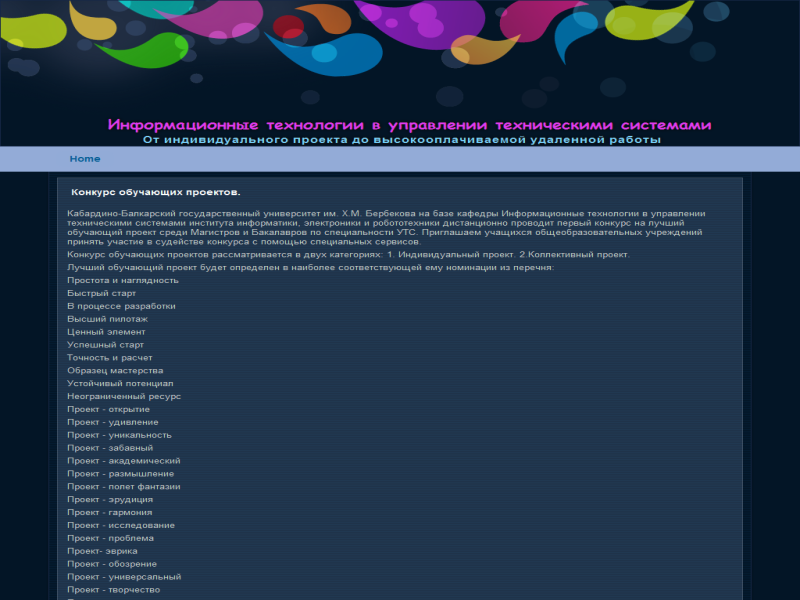
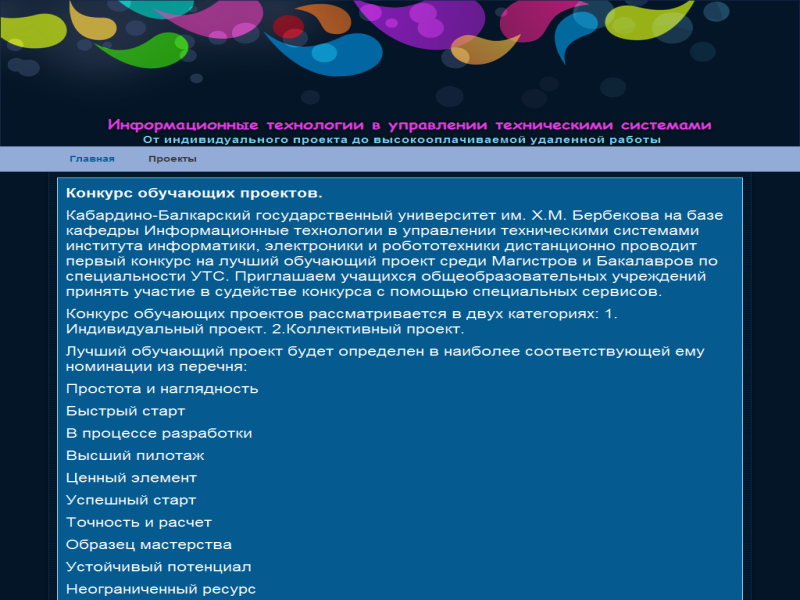
init4

diff --git a/проекты.html b/проекты.html
@@ -1,0 +1,113 @@
+<!DOCTYPE html>
+<html dir="ltr" lang="en-US"><head><!-- Created by Artisteer v4.3.0.60858 -->
+    <meta charset="utf-8">
+    <title>New Page</title>
+    <meta name="viewport" content="initial-scale = 1.0, maximum-scale = 1.0, user-scalable = no, width = device-width">
+
+    <!--[if lt IE 9]><script src="https://html5shiv.googlecode.com/svn/trunk/html5.js"></script><![endif]-->
+    <link rel="stylesheet" href="style.css" media="screen">
+    <!--[if lte IE 7]><link rel="stylesheet" href="style.ie7.css" media="screen" /><![endif]-->
+    <link rel="stylesheet" href="style.responsive.css" media="all">
+
+
+    <script src="jquery.js"></script>
+    <script src="script.js"></script>
+    <script src="script.responsive.js"></script>
+
+
+</head>
+<body>
+<div id="art-main">
+<header class="art-header">
+
+    <div class="art-shapes">
+        <div class="art-object1623040845"></div>
+<div class="art-object1072346909"></div>
+
+            </div>
+
+<h1 class="art-headline">
+    <a href="/">Информационные технологии в управлении техническими системами</a>
+</h1>
+<h2 class="art-slogan">От индивидуального проекта до высокооплачиваемой удаленной работы</h2>
+
+
+
+
+
+                        
+                    
+</header>
+<nav class="art-nav">
+    <div class="art-nav-inner">
+    <ul class="art-hmenu"><li><a href="главная.html" class="">Главная</a></li><li><a href="проекты.html" class="active">Проекты</a></li></ul> 
+        </div>
+    </nav>
+<div class="art-sheet clearfix">
+            <div class="art-layout-wrapper">
+                <div class="art-content-layout">
+                    <div class="art-content-layout-row">
+                        <div class="art-layout-cell art-content"><article class="art-post art-article">
+                                
+                                                
+                <div class="art-postcontent art-postcontent-0 clearfix"><h3><span style="font-size: 22px;">Текущий перечень проектов</span></h3>
+<p><span style="font-size: 22px;"><br></span></p>
+<p><span style="font-size: 22px;">Проекты магистра 1 года обучения Шидугова&nbsp;Ислама.</span></p>
+<p><span style="font-size: 22px;">1.&nbsp;Дальномер на Arduino UNO + HC-SR04 + TFT Display 1.8"</span></p>
+<div class="video-container">
+ <span style="font-size: 22px;"><iframe width="560" height="315" src="https://www.youtube.com/embed/Qwj9HuhaCaI?wmode=transparent&amp;amp;wmode=transparent&amp;amp;wmode=transparent&amp;amp;wmode=transparent&amp;amp;wmode=transparent&amp;amp;wmode=transparent" frameborder="0" allow="accelerometer; autoplay; encrypted-media; gyroscope; picture-in-picture" allowfullscreen=""><span style="font-size: 22px;">&amp;amp;lt;span style="font-size: 22px;"&amp;amp;gt;&amp;amp;lt;span style="font-size: 22px;"&amp;amp;gt;&amp;amp;amp;amp;amp;lt;span style="font-size: 22px;"&amp;amp;amp;amp;amp;gt;&amp;amp;amp;amp;amp;lt;span style="font-size: 22px;"&amp;amp;amp;amp;amp;gt;&amp;amp;amp;amp;amp;amp;amp;amp;lt;span style="font-size: 22px;"&amp;amp;amp;amp;amp;amp;amp;amp;gt;&amp;amp;amp;amp;amp;amp;amp;amp;lt;span style="font-size: 22px;"&amp;amp;amp;amp;amp;amp;amp;amp;gt;
+&amp;amp;amp;amp;amp;amp;amp;amp;lt;/span&amp;amp;amp;amp;amp;amp;amp;amp;gt;&amp;amp;amp;amp;amp;amp;amp;amp;lt;/span&amp;amp;amp;amp;amp;amp;amp;amp;gt;&amp;amp;amp;amp;amp;lt;/span&amp;amp;amp;amp;amp;gt;&amp;amp;amp;amp;amp;lt;/span&amp;amp;amp;amp;amp;gt;&amp;amp;lt;/span&amp;amp;gt;&amp;amp;lt;/span&amp;amp;gt;</span></iframe></span></div>
+<p><span style="font-size: 22px;">2.&nbsp;Управление двигателями Arduino через смартфон</span></p>
+<div class="video-container">
+ <span style="font-size: 22px;"><iframe width="560" height="315" src="https://www.youtube.com/embed/QHzLbfqxxg4?wmode=transparent&amp;amp;wmode=transparent&amp;amp;wmode=transparent&amp;amp;wmode=transparent&amp;amp;wmode=transparent&amp;amp;wmode=transparent" frameborder="0" allow="accelerometer; autoplay; encrypted-media; gyroscope; picture-in-picture" allowfullscreen=""><span style="font-size: 22px;">&amp;amp;lt;span style="font-size: 22px;"&amp;amp;gt;&amp;amp;lt;span style="font-size: 22px;"&amp;amp;gt;&amp;amp;amp;amp;amp;lt;span style="font-size: 22px;"&amp;amp;amp;amp;amp;gt;&amp;amp;amp;amp;amp;lt;span style="font-size: 22px;"&amp;amp;amp;amp;amp;gt;&amp;amp;amp;amp;amp;amp;amp;amp;lt;span style="font-size: 22px;"&amp;amp;amp;amp;amp;amp;amp;amp;gt;&amp;amp;amp;amp;amp;amp;amp;amp;lt;span style="font-size: 22px;"&amp;amp;amp;amp;amp;amp;amp;amp;gt;
+&amp;amp;amp;amp;amp;amp;amp;amp;lt;/span&amp;amp;amp;amp;amp;amp;amp;amp;gt;&amp;amp;amp;amp;amp;amp;amp;amp;lt;/span&amp;amp;amp;amp;amp;amp;amp;amp;gt;&amp;amp;amp;amp;amp;lt;/span&amp;amp;amp;amp;amp;gt;&amp;amp;amp;amp;amp;lt;/span&amp;amp;amp;amp;amp;gt;&amp;amp;lt;/span&amp;amp;gt;&amp;amp;lt;/span&amp;amp;gt;</span></iframe></span></div>
+<p><span style="font-size: 22px;"><br></span></p>
+<p><span style="font-size: 22px;">Проекты магистра 1 года обучения Атласкирова&nbsp;Азамата.<br></span></p>
+<p><span style="font-size: 22px;">3.&nbsp;Подключение датчика газа MQ2 к Arduino</span></p>
+<div class="video-container">
+ <span style="font-size: 22px;"><iframe width="560" height="315" src="https://www.youtube.com/embed/L_wYam1rDqw?wmode=transparent&amp;amp;wmode=transparent&amp;amp;wmode=transparent&amp;amp;wmode=transparent&amp;amp;wmode=transparent&amp;amp;wmode=transparent" frameborder="0" allow="accelerometer; autoplay; encrypted-media; gyroscope; picture-in-picture" allowfullscreen=""><span style="font-size: 22px;">&amp;amp;lt;span style="font-size: 22px;"&amp;amp;gt;&amp;amp;lt;span style="font-size: 22px;"&amp;amp;gt;&amp;amp;amp;amp;amp;lt;span style="font-size: 22px;"&amp;amp;amp;amp;amp;gt;&amp;amp;amp;amp;amp;lt;span style="font-size: 22px;"&amp;amp;amp;amp;amp;gt;&amp;amp;amp;amp;amp;amp;amp;amp;lt;span style="font-size: 22px;"&amp;amp;amp;amp;amp;amp;amp;amp;gt;&amp;amp;amp;amp;amp;amp;amp;amp;lt;span style="font-size: 22px;"&amp;amp;amp;amp;amp;amp;amp;amp;gt;
+&amp;amp;amp;amp;amp;amp;amp;amp;lt;/span&amp;amp;amp;amp;amp;amp;amp;amp;gt;&amp;amp;amp;amp;amp;amp;amp;amp;lt;/span&amp;amp;amp;amp;amp;amp;amp;amp;gt;&amp;amp;amp;amp;amp;lt;/span&amp;amp;amp;amp;amp;gt;&amp;amp;amp;amp;amp;lt;/span&amp;amp;amp;amp;amp;gt;&amp;amp;lt;/span&amp;amp;gt;&amp;amp;lt;/span&amp;amp;gt;</span></iframe></span></div>
+<p><span style="font-size: 22px;"><br></span></p>
+<p><span style="font-size: 22px;">Проекты бакалавра 3 курса&nbsp;Саутича&nbsp;Владислава.</span></p>
+<p><span style="font-size: 22px;">4. Сервомотор и переключатель</span></p>
+<p><a href="https://cloud.mail.ru/public/5HwG/4HtHWMu3y" style="font-size: 22px;">Сервомотор</a></p>
+<p><span style="font-size: 22px;">5. Микроконтроллер и датчик температуры</span></p>
+<p><a href="https://cloud.mail.ru/public/us9S/4i7t5dXMw" style="font-size: 22px;">Датчик температуры</a></p>
+<p><span style="font-size: 22px;"><br></span></p>
+<p><span style="font-size: 22px;">Проекты магистра 1 года обучения&nbsp;Закаева&nbsp;</span><span style="font-size: 22px;">Инала.</span></p>
+<p><span style="font-size: 22px;">6.&nbsp;<a href="https://cloud.mail.ru/public/2FXG/2oPQVqQeq" style="font-size: 22px;">Лабораторная работа Датчик движения</a>&nbsp;<br></span></p>
+<p><span style="font-size: 22px;">7.&nbsp;<a href="https://cloud.mail.ru/public/34ts/4xkCoVim6" style="font-size: 22px;">Лабораторная работа Фоторезистор</a><br></span></p>
+<p><span style="font-size: 22px;">8.&nbsp;<a href="https://cloud.mail.ru/public/3rbA/2gcWMWmRx" style="font-size: 22px;">Лабораторная работа Шаговый двигатель 28BYJ-48</a></span></p>
+<p><br></p>
+<p><span style="font-size: 22px;">Проекты магистра 1 года обучения&nbsp;Карповой Жанны</span><span style="font-size: 22px;">.</span><br></p>
+<p><span style="font-size: 22px;">9.&nbsp;<a href="https://cloud.mail.ru/public/SVSw/2c2KsBjP7" style="font-size: 22px;">Обучающий проект «Управление сервоприводом»</a></span></p>
+<p><br></p>
+<p><br></p><p style="text-align: center;">
+<a href="https://simpoll.ru/run/survey/50700eb5" style="font-size: 22px;"><span style="color: #E2341D;">Голосование на конкурс обучающих проектов</span></a>
+</p><p><br></p>
+<p></p></div>
+                                
+                
+
+</article></div>
+                    </div>
+                </div>
+            </div>
+    </div>
+<footer class="art-footer">
+  <div class="art-footer-inner">
+<br>
+<br>
+<p>Copyright © 2011. All Rights Reserved.&nbsp;&nbsp;&nbsp;&nbsp;&nbsp;&nbsp;&nbsp;&nbsp;<a href="#">Privacy Policy</a>&nbsp;&nbsp;&nbsp;&nbsp; <a href="#">Terms Of Use</a>&nbsp;&nbsp;&nbsp;&nbsp; <a href="#">About</a></p>
+<br>
+<br>
+    <p class="art-page-footer">
+        <span id="art-footnote-links"><a href="http://www.artisteer.com/" target="_blank">Web Template</a> created with Artisteer.</span>
+    </p>
+  </div>
+</footer>
+
+</div>
+
+
+</body></html>
